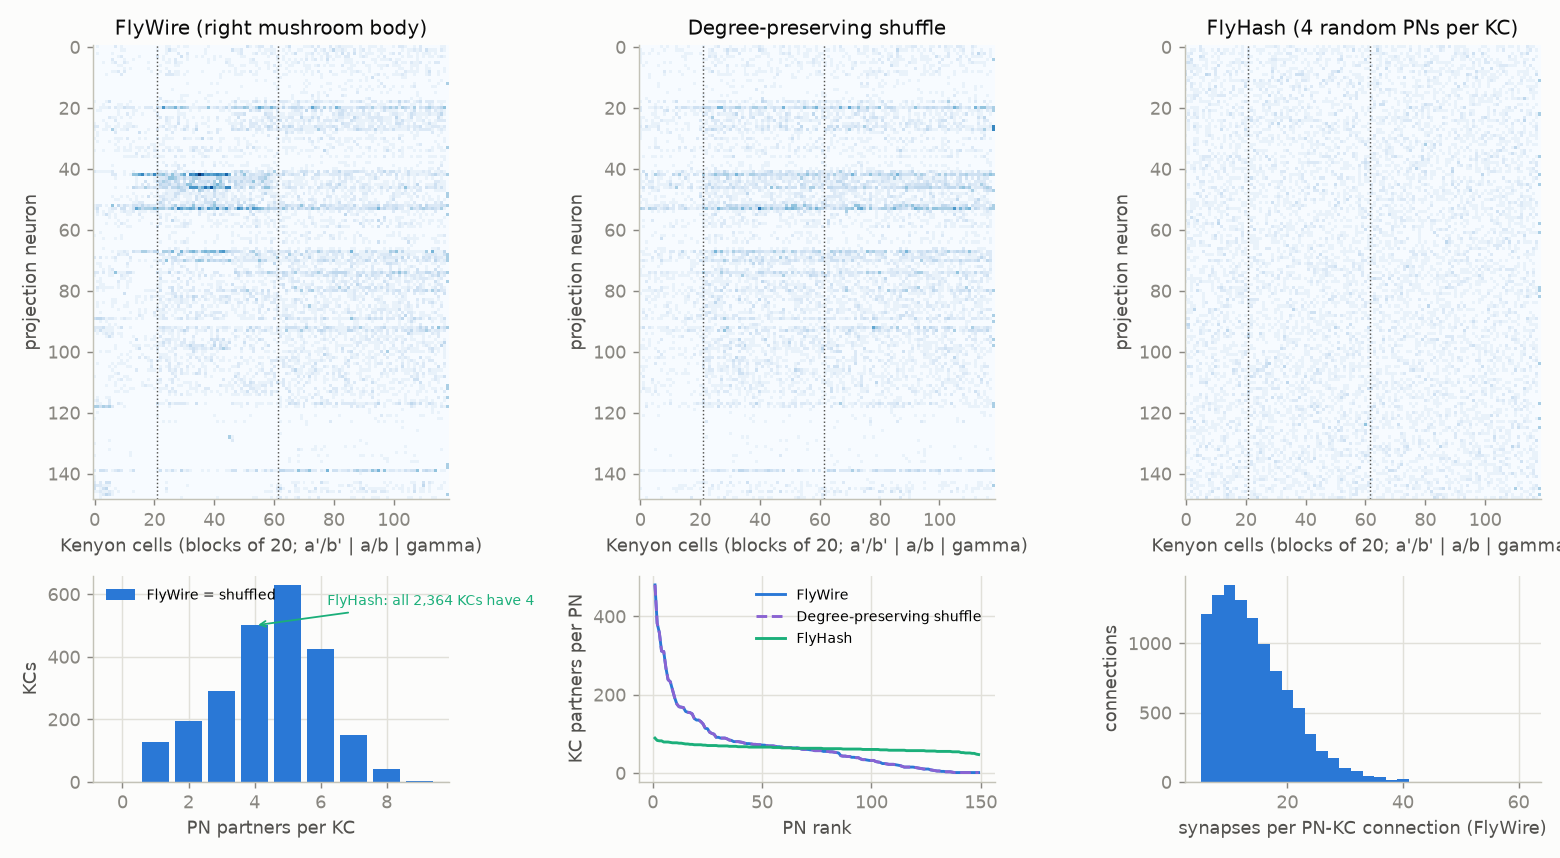
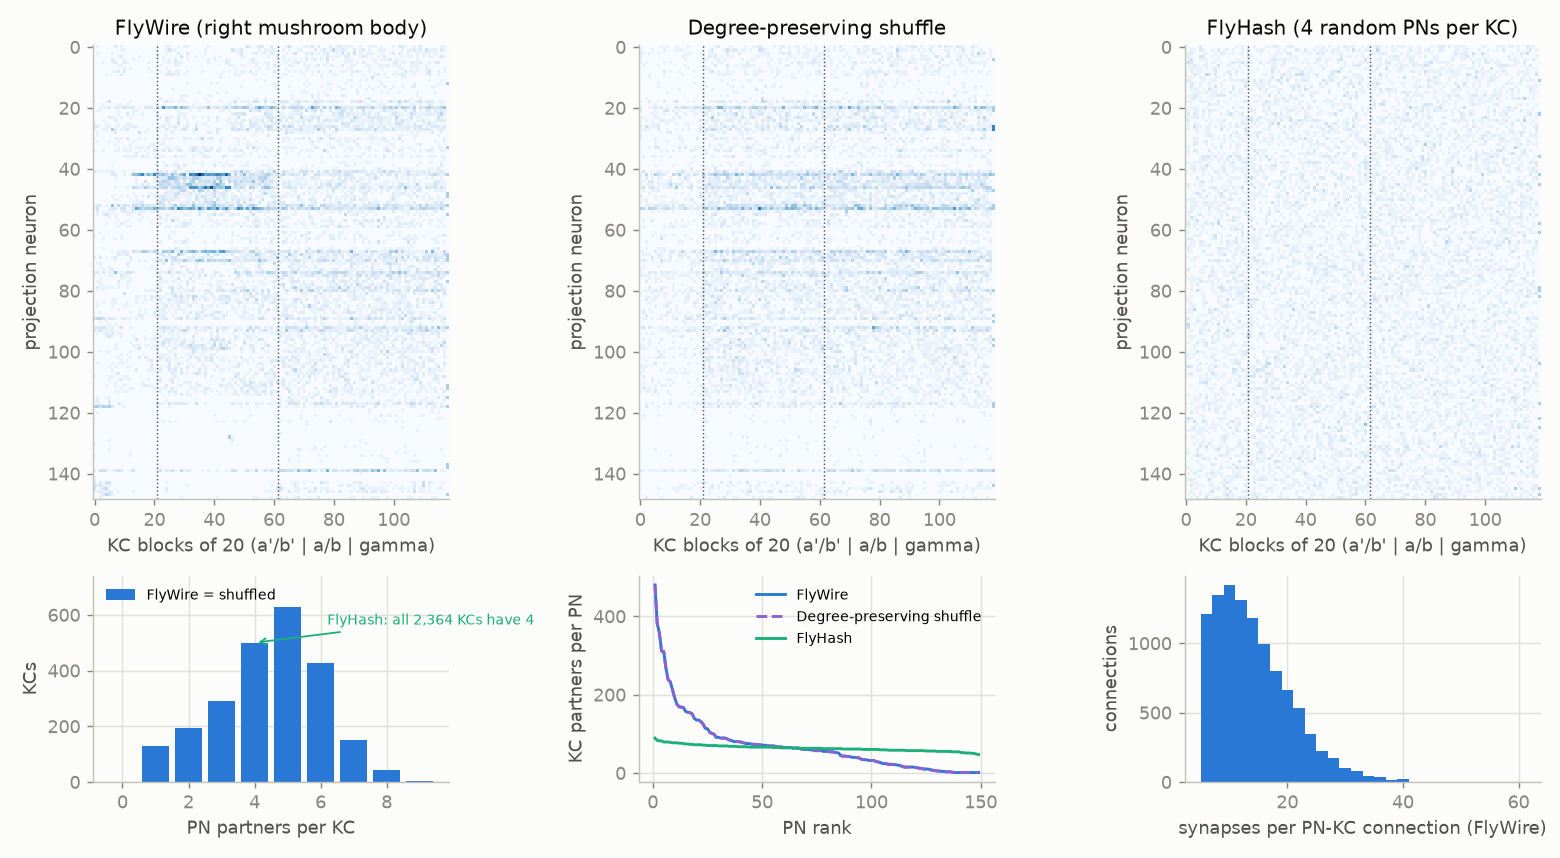
Charts: CARE methods as horizontal bars, values clear of whiskers, readable dates and labels
Dashboard: the CARE chart is a horizontal bar chart (the method names collided as angled labels); room for the last date of the event plot; on a phone the injection and service charts get vertical labels and their legends below, and shorter axis titles. README figures: CARE values in a fixed column clear of whiskers and the 0.5 line, concise dates in the examples, full title in the mechanism figure, shorter axis label and legend headroom in the wiring figure. Layout only; results unchanged.

diff --git a/docs/index.html b/docs/index.html
@@ -209,7 +209,7 @@ function drawEvent() {
   if (e.window) e.window.forEach(w => shapes.push({type: "line", xref: "x", x0: w, x1: w, yref: "paper", y0: 0, y1: 1,
     line: {color: css("--ink"), width: 1.5, dash: "dash"}}));
   const narrow = window.innerWidth < 600;
-  Plotly.react("eventplot", [heat], layout({shapes: shapes, margin: {l: narrow ? 120 : 200, r: 10, t: 10, b: 40},
+  Plotly.react("eventplot", [heat], layout({shapes: shapes, margin: {l: narrow ? 120 : 200, r: 30, t: 10, b: 40},
     yaxis: {autorange: "reversed", showgrid: false, tickfont: {color: css("--ink2"), size: narrow ? 9 : 12}},
     xaxis: {showgrid: false}}), CFG);
 }
@@ -235,7 +235,8 @@ function drawReplay(n) {
   Plotly.react("raster", [{type: "scattergl", mode: "markers", x: xs, y: ys,
     marker: {size: 3, color: cs, cmin: 0, cmax: 1, colorscale: [[0, css("--neutral")], [1, css("--critical")]]},
     hovertemplate: "hour %{x}<br>KC %{y}<extra></extra>"}], layout({
-    xaxis: {title: {text: "hours since the start of the prediction section"}, range: [0, R.raster_hours], gridcolor: css("--grid")},
+    xaxis: {title: {text: window.innerWidth < 600 ? "hours into the prediction section" :
+      "hours since the start of the prediction section"}, range: [0, R.raster_hours], gridcolor: css("--grid")},
     yaxis: {title: {text: "Kenyon cell"}, range: [0, R.n_kc], gridcolor: css("--grid")}}), CFG);
   document.getElementById("replay-clock").textContent = n > 0 ? R.t[Math.min(n, R.t.length) - 1] : "";
 }
@@ -250,16 +251,17 @@ document.getElementById("reset").addEventListener("click", () => { frame = 0; dr
 
 // CARE
 function drawCare() {
-  const M = D.methods;
-  const bars = {type: "bar", x: M.map(m => m.label), y: M.map(m => m.care), marker: {color: M.map(m => color(m.key))},
-    hovertemplate: "%{x}<br>CARE %{y:.3f}<extra></extra>"};
+  const M = D.methods, narrow = window.innerWidth < 600;
+  // horizontal bars: the method names are long and ran into each other as angled labels under vertical bars
+  const bars = {type: "bar", orientation: "h", y: M.map(m => m.label), x: M.map(m => m.care),
+    marker: {color: M.map(m => color(m.key))}, hovertemplate: "%{y}<br>CARE %{x:.3f}<extra></extra>"};
   const dots = {type: "scatter", mode: "markers", x: [], y: [], marker: {color: css("--ink"), size: 6},
-    hovertemplate: "%{x}<br>seed %{y:.3f}<extra></extra>"};
-  M.forEach(m => (m.seeds || []).forEach(v => { dots.x.push(m.label); dots.y.push(v); }));
-  Plotly.react("care", [bars, dots], layout({margin: {l: 60, r: 20, t: 10, b: 120},
-    shapes: [{type: "line", xref: "paper", x0: 0, x1: 1, y0: 0.5, y1: 0.5, line: {color: css("--ink2"), dash: "dash", width: 1}}],
-    yaxis: {title: {text: "CARE score"}, range: [0, Math.max(0.75, ...M.map(m => m.care)) + 0.03], gridcolor: css("--grid")},
-    xaxis: {tickangle: -35, tickfont: {color: css("--ink2")}}}), CFG);
+    hovertemplate: "%{y}<br>seed %{x:.3f}<extra></extra>"};
+  M.forEach(m => (m.seeds || []).forEach(v => { dots.y.push(m.label); dots.x.push(v); }));
+  Plotly.react("care", [bars, dots], layout({margin: {l: narrow ? 175 : 230, r: 12, t: 10, b: 46},
+    shapes: [{type: "line", yref: "paper", y0: 0, y1: 1, x0: 0.5, x1: 0.5, line: {color: css("--ink2"), dash: "dash", width: 1}}],
+    xaxis: {title: {text: "CARE score"}, range: [0, Math.max(0.75, ...M.map(m => m.care)) + 0.03], gridcolor: css("--grid")},
+    yaxis: {autorange: "reversed", tickfont: {color: css("--ink2"), size: narrow ? 9 : 12}}}), CFG);
   const head = "<tr><th>Method</th><th>CARE</th><th>Faults detected (of 45)</th><th>Normal datasets flagged (of 50)</th>" +
     "<th>Skill</th><th>Median lead [days]</th><th>False alarm days per dataset</th></tr>";
   document.getElementById("caretable").innerHTML = head + M.map(m => `<tr><td>${m.label}</td><td>${fmt(m.care, 3)}</td>` +
@@ -273,8 +275,13 @@ function drawInject() {
   const traces = I.methods.map(m => ({type: "bar", name: m.label, x: I.fault_labels, y: m.values,
     marker: {color: color(m.key), pattern: {shape: m.key.startsWith("fly_res") ? "/" : ""}},
     hovertemplate: m.label + "<br>%{x}: %{y:.0%}<extra></extra>"}));
-  Plotly.react("inject", traces, layout({barmode: "group", showlegend: true, legend: {orientation: "h", y: -0.15},
-    margin: {l: 60, r: 20, t: 10, b: 70},
+  // on a phone the fault names and the long method legend need their own room below the bars
+  const narrow = window.innerWidth < 600;
+  document.getElementById("inject").style.height = narrow ? "640px" : "400px";
+  Plotly.react("inject", traces, layout({barmode: "group", showlegend: true,
+    legend: narrow ? {orientation: "h", yanchor: "top", y: -0.4, font: {size: 10}} : {orientation: "h", y: -0.15},
+    margin: {l: 60, r: 20, t: 10, b: narrow ? 300 : 70},
+    xaxis: Object.assign(layout().xaxis, narrow ? {tickangle: -90} : {}),
     yaxis: {title: {text: "detected"}, tickformat: ".0%", range: [0, 1], gridcolor: css("--grid")}}), CFG);
 }
 
@@ -290,8 +297,12 @@ function drawOps() {
   const traces = S.policies.map((p, i) => ({type: "bar", name: S.policy_labels[i], x: S.scenario_labels,
     y: S.values[p], marker: {color: css(["--neutral", "--c1", "--c2", "--c3"][i])},
     hovertemplate: S.policy_labels[i] + "<br>%{x}: alarm in %{y:.0%} of the trials<extra></extra>"}));
-  Plotly.react("service", traces, layout({barmode: "group", showlegend: true, legend: {orientation: "h", y: -0.2},
-    margin: {l: 60, r: 20, t: 10, b: 60},
+  const narrow = window.innerWidth < 600;
+  document.getElementById("service").style.height = narrow ? "540px" : document.getElementById("service").style.height;
+  Plotly.react("service", traces, layout({barmode: "group", showlegend: true,
+    legend: narrow ? {orientation: "h", yanchor: "top", y: -0.5, font: {size: 10}} : {orientation: "h", y: -0.2},
+    margin: {l: 60, r: 20, t: 10, b: narrow ? 240 : 60},
+    xaxis: Object.assign(layout().xaxis, narrow ? {tickangle: -90} : {}),
     yaxis: {title: {text: "trials with an alarm"}, tickformat: ".0%", range: [0, 1], gridcolor: css("--grid")}}), CFG);
 }
 

diff --git a/src/fly_novelty/dashboard.html b/src/fly_novelty/dashboard.html
@@ -209,7 +209,7 @@ function drawEvent() {
   if (e.window) e.window.forEach(w => shapes.push({type: "line", xref: "x", x0: w, x1: w, yref: "paper", y0: 0, y1: 1,
     line: {color: css("--ink"), width: 1.5, dash: "dash"}}));
   const narrow = window.innerWidth < 600;
-  Plotly.react("eventplot", [heat], layout({shapes: shapes, margin: {l: narrow ? 120 : 200, r: 10, t: 10, b: 40},
+  Plotly.react("eventplot", [heat], layout({shapes: shapes, margin: {l: narrow ? 120 : 200, r: 30, t: 10, b: 40},
     yaxis: {autorange: "reversed", showgrid: false, tickfont: {color: css("--ink2"), size: narrow ? 9 : 12}},
     xaxis: {showgrid: false}}), CFG);
 }
@@ -235,7 +235,8 @@ function drawReplay(n) {
   Plotly.react("raster", [{type: "scattergl", mode: "markers", x: xs, y: ys,
     marker: {size: 3, color: cs, cmin: 0, cmax: 1, colorscale: [[0, css("--neutral")], [1, css("--critical")]]},
     hovertemplate: "hour %{x}<br>KC %{y}<extra></extra>"}], layout({
-    xaxis: {title: {text: "hours since the start of the prediction section"}, range: [0, R.raster_hours], gridcolor: css("--grid")},
+    xaxis: {title: {text: window.innerWidth < 600 ? "hours into the prediction section" :
+      "hours since the start of the prediction section"}, range: [0, R.raster_hours], gridcolor: css("--grid")},
     yaxis: {title: {text: "Kenyon cell"}, range: [0, R.n_kc], gridcolor: css("--grid")}}), CFG);
   document.getElementById("replay-clock").textContent = n > 0 ? R.t[Math.min(n, R.t.length) - 1] : "";
 }
@@ -250,16 +251,17 @@ document.getElementById("reset").addEventListener("click", () => { frame = 0; dr
 
 // CARE
 function drawCare() {
-  const M = D.methods;
-  const bars = {type: "bar", x: M.map(m => m.label), y: M.map(m => m.care), marker: {color: M.map(m => color(m.key))},
-    hovertemplate: "%{x}<br>CARE %{y:.3f}<extra></extra>"};
+  const M = D.methods, narrow = window.innerWidth < 600;
+  // horizontal bars: the method names are long and ran into each other as angled labels under vertical bars
+  const bars = {type: "bar", orientation: "h", y: M.map(m => m.label), x: M.map(m => m.care),
+    marker: {color: M.map(m => color(m.key))}, hovertemplate: "%{y}<br>CARE %{x:.3f}<extra></extra>"};
   const dots = {type: "scatter", mode: "markers", x: [], y: [], marker: {color: css("--ink"), size: 6},
-    hovertemplate: "%{x}<br>seed %{y:.3f}<extra></extra>"};
-  M.forEach(m => (m.seeds || []).forEach(v => { dots.x.push(m.label); dots.y.push(v); }));
-  Plotly.react("care", [bars, dots], layout({margin: {l: 60, r: 20, t: 10, b: 120},
-    shapes: [{type: "line", xref: "paper", x0: 0, x1: 1, y0: 0.5, y1: 0.5, line: {color: css("--ink2"), dash: "dash", width: 1}}],
-    yaxis: {title: {text: "CARE score"}, range: [0, Math.max(0.75, ...M.map(m => m.care)) + 0.03], gridcolor: css("--grid")},
-    xaxis: {tickangle: -35, tickfont: {color: css("--ink2")}}}), CFG);
+    hovertemplate: "%{y}<br>seed %{x:.3f}<extra></extra>"};
+  M.forEach(m => (m.seeds || []).forEach(v => { dots.y.push(m.label); dots.x.push(v); }));
+  Plotly.react("care", [bars, dots], layout({margin: {l: narrow ? 175 : 230, r: 12, t: 10, b: 46},
+    shapes: [{type: "line", yref: "paper", y0: 0, y1: 1, x0: 0.5, x1: 0.5, line: {color: css("--ink2"), dash: "dash", width: 1}}],
+    xaxis: {title: {text: "CARE score"}, range: [0, Math.max(0.75, ...M.map(m => m.care)) + 0.03], gridcolor: css("--grid")},
+    yaxis: {autorange: "reversed", tickfont: {color: css("--ink2"), size: narrow ? 9 : 12}}}), CFG);
   const head = "<tr><th>Method</th><th>CARE</th><th>Faults detected (of 45)</th><th>Normal datasets flagged (of 50)</th>" +
     "<th>Skill</th><th>Median lead [days]</th><th>False alarm days per dataset</th></tr>";
   document.getElementById("caretable").innerHTML = head + M.map(m => `<tr><td>${m.label}</td><td>${fmt(m.care, 3)}</td>` +
@@ -273,8 +275,13 @@ function drawInject() {
   const traces = I.methods.map(m => ({type: "bar", name: m.label, x: I.fault_labels, y: m.values,
     marker: {color: color(m.key), pattern: {shape: m.key.startsWith("fly_res") ? "/" : ""}},
     hovertemplate: m.label + "<br>%{x}: %{y:.0%}<extra></extra>"}));
-  Plotly.react("inject", traces, layout({barmode: "group", showlegend: true, legend: {orientation: "h", y: -0.15},
-    margin: {l: 60, r: 20, t: 10, b: 70},
+  // on a phone the fault names and the long method legend need their own room below the bars
+  const narrow = window.innerWidth < 600;
+  document.getElementById("inject").style.height = narrow ? "640px" : "400px";
+  Plotly.react("inject", traces, layout({barmode: "group", showlegend: true,
+    legend: narrow ? {orientation: "h", yanchor: "top", y: -0.4, font: {size: 10}} : {orientation: "h", y: -0.15},
+    margin: {l: 60, r: 20, t: 10, b: narrow ? 300 : 70},
+    xaxis: Object.assign(layout().xaxis, narrow ? {tickangle: -90} : {}),
     yaxis: {title: {text: "detected"}, tickformat: ".0%", range: [0, 1], gridcolor: css("--grid")}}), CFG);
 }
 
@@ -290,8 +297,12 @@ function drawOps() {
   const traces = S.policies.map((p, i) => ({type: "bar", name: S.policy_labels[i], x: S.scenario_labels,
     y: S.values[p], marker: {color: css(["--neutral", "--c1", "--c2", "--c3"][i])},
     hovertemplate: S.policy_labels[i] + "<br>%{x}: alarm in %{y:.0%} of the trials<extra></extra>"}));
-  Plotly.react("service", traces, layout({barmode: "group", showlegend: true, legend: {orientation: "h", y: -0.2},
-    margin: {l: 60, r: 20, t: 10, b: 60},
+  const narrow = window.innerWidth < 600;
+  document.getElementById("service").style.height = narrow ? "540px" : document.getElementById("service").style.height;
+  Plotly.react("service", traces, layout({barmode: "group", showlegend: true,
+    legend: narrow ? {orientation: "h", yanchor: "top", y: -0.5, font: {size: 10}} : {orientation: "h", y: -0.2},
+    margin: {l: 60, r: 20, t: 10, b: narrow ? 240 : 60},
+    xaxis: Object.assign(layout().xaxis, narrow ? {tickangle: -90} : {}),
     yaxis: {title: {text: "trials with an alarm"}, tickformat: ".0%", range: [0, 1], gridcolor: css("--grid")}}), CFG);
 }
 

diff --git a/src/fly_novelty/report.py b/src/fly_novelty/report.py
@@ -10,6 +10,7 @@ from __future__ import annotations
 
 import json
 import logging
+import textwrap
 from importlib import resources
 from pathlib import Path
 
@@ -93,7 +94,7 @@ def fig_wiring(wiring: connectome.Wiring, out: Path) -> dict:
         ax.grid(False)
         for c in np.flatnonzero(classes[1:] != classes[:-1]) + 1:
             ax.axvline(c / KC_BLOCK - 0.5, color=INK2, lw=0.8, ls=":")
-        ax.set_xlabel("Kenyon cells (blocks of 20; a'/b' | a/b | gamma)")
+        ax.set_xlabel("KC blocks of 20 (a'/b' | a/b | gamma)")
         ax.set_ylabel("projection neuron")
     real_deg = np.bincount(variants["flywire"].sum(axis=1).astype(int))
     axes[1, 0].bar(np.arange(len(real_deg)), real_deg, color=COLORS["fly_flywire"],
@@ -108,6 +109,7 @@ def fig_wiring(wiring: connectome.Wiring, out: Path) -> dict:
                         ls="--" if k == "shuffled" else "-", label=titles[k].split(" (")[0])
     axes[1, 0].set_xlabel("PN partners per KC")
     axes[1, 0].set_ylabel("KCs")
+    axes[1, 0].set_ylim(0, real_deg.max() * 1.18)  # headroom: the legend sat on the tallest bar
     axes[1, 0].legend(fontsize=8, loc="upper left")
     axes[1, 1].legend(fontsize=8)
     axes[1, 1].set_xlabel("PN rank")
@@ -220,11 +222,13 @@ def fig_care(methods: pd.DataFrame, out: Path) -> None:
     for i, (lo, hi) in enumerate(zip(m["care_min"], m["care_max"])):
         if hi > lo:
             ax.plot([lo, hi], [i, i], color=INK, lw=1.2)
-    for i, (c, d, f, hi_) in enumerate(zip(m["care"], m["detected"], m["normal_flagged"], m["care_max"])):
-        ax.text(max(c, hi_) + 0.01, i, f"{c:.3f}   {d:.3g}/45 faults, {f:.3g}/50 normal", va="center",
-                fontsize=8, color=INK2)
+    # values in a fixed column right of every bar, whisker and the 0.5 line, so nothing crosses them
+    col = max(0.55, float(np.nanmax(np.r_[m["care"], m["care_max"]])) + 0.04)
+    for i, (c, d, f) in enumerate(zip(m["care"], m["detected"], m["normal_flagged"])):
+        ax.text(col, i, f"{c:.3f}   {d:.3g}/45 faults, {f:.3g}/50 normal", va="center", fontsize=8, color=INK2)
     ax.axvline(0.5, color=INK2, ls="--", lw=1)
-    ax.set_xlim(0, 0.95)
+    ax.set_xlim(0, col + 0.42)
+    ax.set_xticks(np.arange(0, 0.61, 0.1))
     ax.set_xlabel("CARE score (0.5 = random detector)")
     ax.grid(axis="y", visible=False)
     fig.tight_layout()
@@ -392,6 +396,9 @@ def fig_events(scores_dir: Path, picks: list[tuple[str, int, str]], out: Path) -
             for edge in w:
                 ax.axvline(edge, color=INK, lw=1.2, ls="--")
         ax.xaxis_date()
+        loc = matplotlib.dates.AutoDateLocator(maxticks=8)  # fewer, shorter dates: they overlapped
+        ax.xaxis.set_major_locator(loc)
+        ax.xaxis.set_major_formatter(matplotlib.dates.ConciseDateFormatter(loc))
         ax.set_yticks(range(len(EVENT_METHODS)), labels, fontsize=8)
         ax.grid(False)
         ax.set_title(title, loc="left")
@@ -466,7 +473,8 @@ def fig_mechanism(trace: pd.DataFrame, out: Path) -> None:
     axes[1].set_yscale("log")
     axes[1].set_ylabel("uses of the rarest KC\nin the tag (training)")
     a = trace.attrs
-    axes[0].set_title(f"Wind farm {a['farm']}, dataset {a['event_id']}: {a['description'][:70]}", loc="left")
+    axes[0].set_title(textwrap.fill(f"Wind farm {a['farm']}, dataset {a['event_id']}: {a['description']}", 95),
+                      loc="left")
     axes[1].text(0.01, 0.05, "below the dashed line (about 60 uses, 0.5^60 = 1e-18) the novelty would leave zero",
                  transform=axes[1].transAxes, fontsize=8, color=INK2)
     fig.tight_layout()
